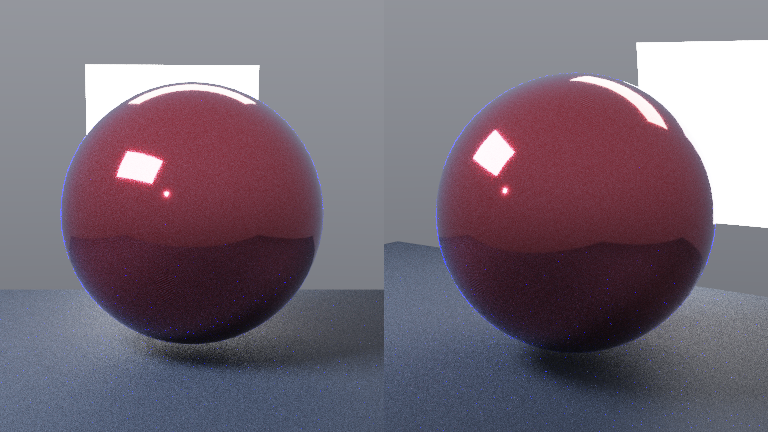
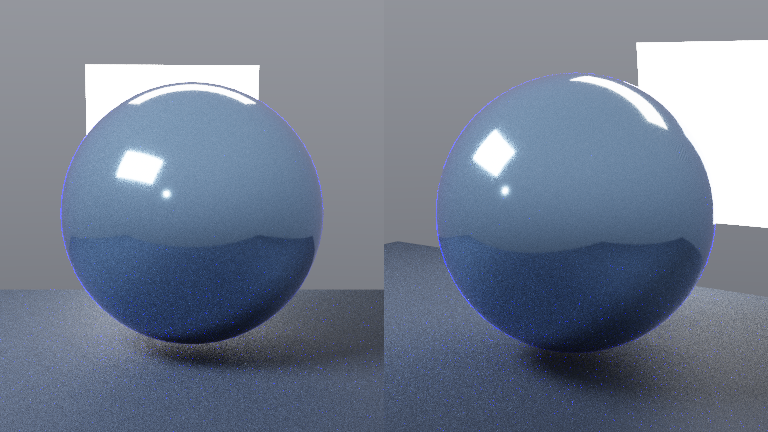
feat(materials): make automotive flakes visibly resolvable

diff --git a/Engine/ContentInterchange/ShaderballPreview.cpp b/Engine/ContentInterchange/ShaderballPreview.cpp
@@ -613,7 +613,7 @@ vec3 Radiance(vec3 O, vec3 D, Rng& R)
         // isolated from the ordinary shaderball exhibit and Project-Zero; the material math itself lives in the
         // included AutomotiveMaterialProfiles.slang, which is also visible to the GPU Slang evaluator.
         if (m.Metalness > 0.8f && m.CoatWeight > 0.0f)
-            m = AutomotiveApplyTriCoatFlakes(m, P, Ns, -D, vec3(0.025f, 0.14f, 0.72f), 0.32f, 28.0f, 0.37f);
+            m = AutomotiveApplyTriCoatFlakes(m, P, Ns, -D, vec3(0.025f, 0.14f, 0.72f), 0.42f, 18.0f, 0.37f);
 #endif
         bool solidHit = g_SolidBall && T.Mat == 0 && m.TransmissionWeight > 0.0f;
         bool fromInside = Inside && T.Mat == EntryMat;

diff --git a/Exhibits/Workbench/Automotive/AutomotiveMaterialPreview.cpp b/Exhibits/Workbench/Automotive/AutomotiveMaterialPreview.cpp
@@ -200,7 +200,9 @@ void BuildSuiteScene()
 void BuildPaintScene()
 {
     ClearScene();
-    g_Mats[0] = AutomotiveTriCoat(vec3(0.42f, 0.008f, 0.018f), 0.11f, 0.045f, 1.58f);
+    // Silver-blue showcase paint matches the real flake reference: the suite keeps its red paint sample, while this
+    // close-up makes the microflake population readable against a light metallic base.
+    g_Mats[0] = AutomotiveTriCoat(vec3(0.30f, 0.46f, 0.62f), 0.11f, 0.045f, 1.58f);
     g_Mats[1] = GroundMaterial();
     for (int I = 2; I < 8; ++I) g_Mats[I] = GroundMaterial();
     AddQuad(vec3(-6.0f, -4.0f, 0.0f), vec3(6.0f, -4.0f, 0.0f),

diff --git a/Exhibits/Gallery/Automotive/README.md b/Exhibits/Gallery/Automotive/README.md
@@ -21,8 +21,9 @@ is included by `MaterialEvaluation.slang` and therefore is shared with the GPU s
   titanium, tire rubber, and Alcantara on procedural preview geometry.
 - `AutomotiveOpticsAndCoatings.png` — clear headlight glass, red tail-lens glass, blue tri-coat paint, brushed alloy,
   and thin-film titanium in a closer optics/coating arrangement.
-- `AutomotivePaintFlakeFlopComparison.png` — the same red tri-coat paint from a face-on and grazing camera. The
-  deterministic analytic flake signal and grazing-angle flop are active in both panels.
+- `AutomotivePaintFlakeFlopComparison.png` — a silver-blue tri-coat paint close-up from a face-on and grazing camera.
+  It is tuned to make the deterministic analytic flake population readable, while the grazing-angle flop remains active
+  in both panels.
 
 The geometry is generated from UV-parameterized spheres, torus rings, and a cylinder. The current flakes are a
 texture-free analytic fallback in the shared Slang profile; UV-backed carbon weave and tread textures remain deferred
